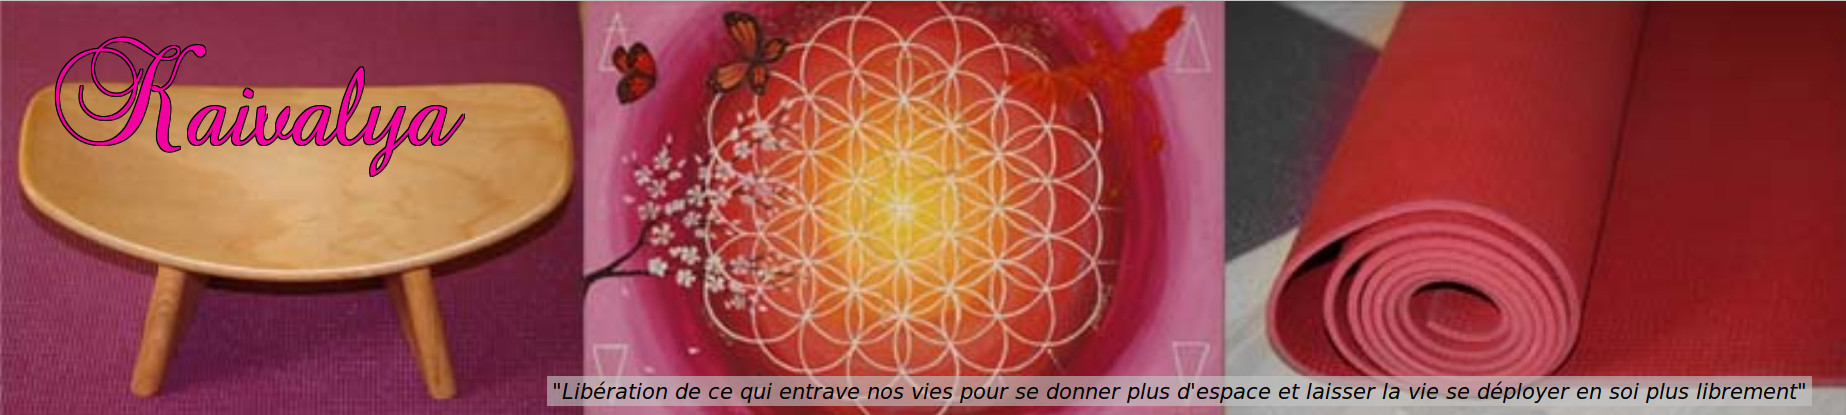
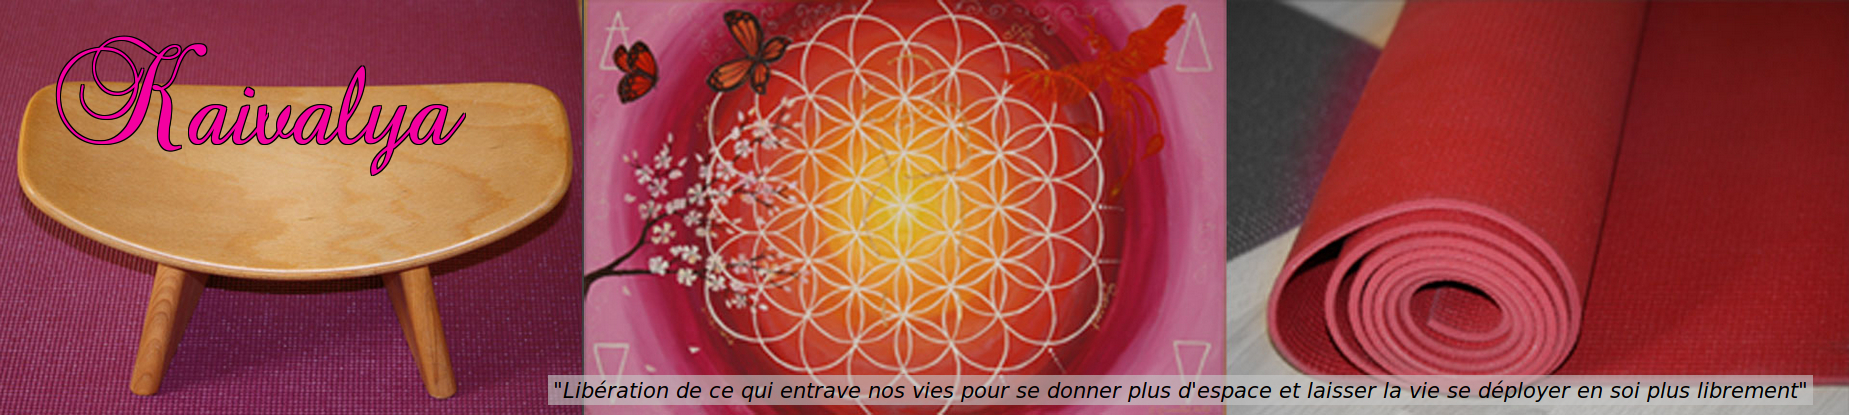
upage images with good quality

diff --git a/app/styles/_global.scss b/app/styles/_global.scss
@@ -130,6 +130,7 @@ section {
 /* Responsive: Portrait tablets and up */
 @media screen and (max-width: 1060px) {
   header{
+    background-image: url(../images/home-1060.jpg);
     h1{
       top: 5%;
       font-size: 3em;
@@ -147,6 +148,7 @@ section {
 /* Responsive: Portrait tablets and up */
 @media screen and (max-width: 768px) {
   header{
+    background-image: url(../images/home-720.jpg);
     h1{
       top: 0%;
       font-size: 2em;
